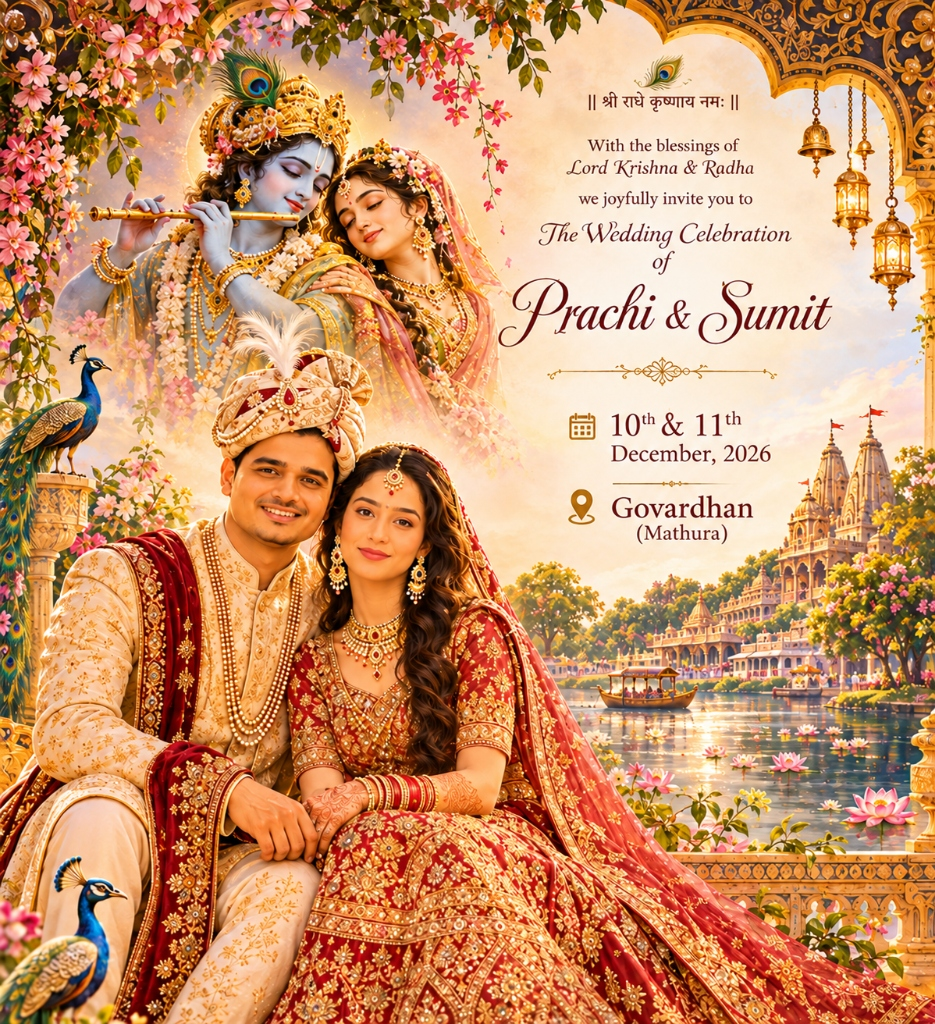
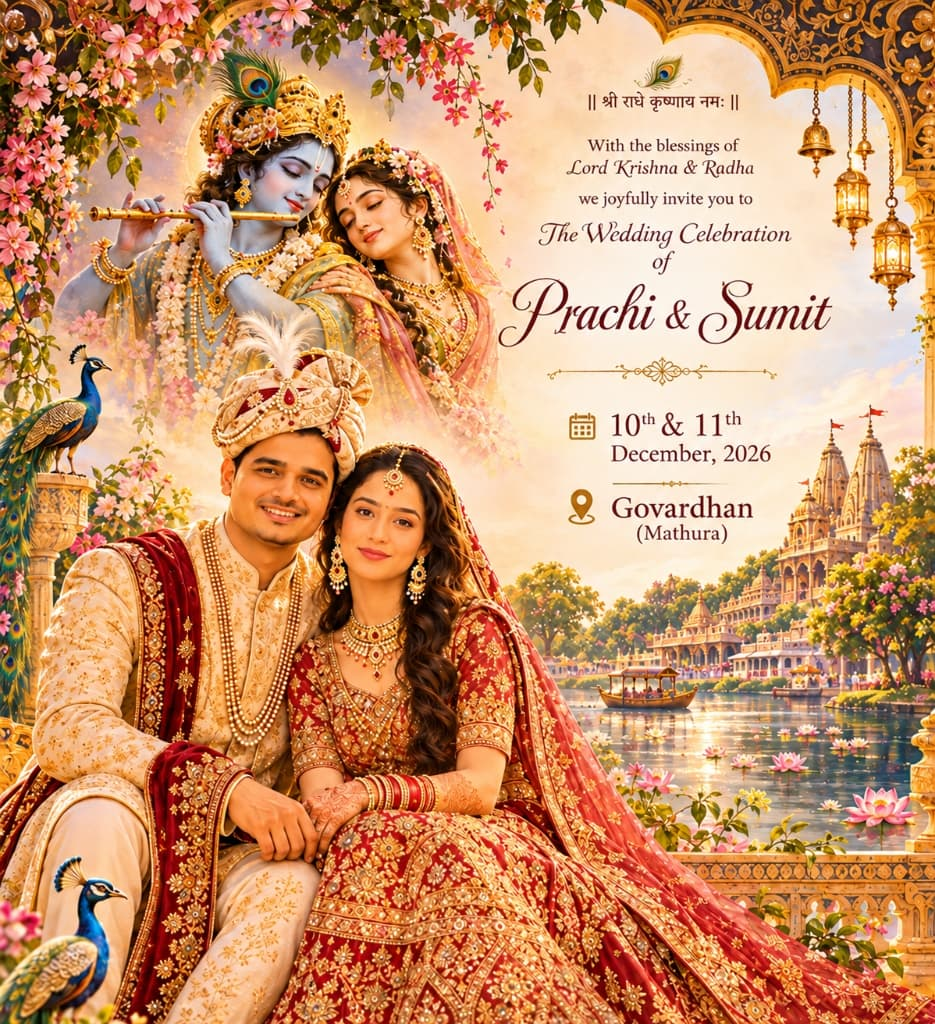
fix(og): optimize preview images to 222KB for WhatsApp 300KB limit, fix dimensions to 935x1024, and bust crawler cache

diff --git a/netlify/edge-functions/dynamic-og.js b/netlify/edge-functions/dynamic-og.js
@@ -48,7 +48,7 @@ export default async function handler(request, context) {
     const brideTitle = 'Prachi Weds Sumit'
     const brideDesc =
       'Together with their families, Prachi & Sumit request the honour of your gracious presence and blessings at their auspicious wedding celebrations. Celebrating love, sacred tradition, and joyous beginnings.'
-    const brideImage = `${origin}/og/wedding-preview-bride.jpg`
+    const brideImage = `${origin}/og/wedding-preview-bride.jpg?v=2`
     const brideUrl = `${origin}/?side=bride`
     const brideAlt =
       'Prachi Weds Sumit — Royal Wedding Celebration featuring Prachi & Sumit'
@@ -95,6 +95,14 @@ export default async function handler(request, context) {
       /<meta\s+property="og:image:alt"\s+content="[^"]*"\s*\/?>/i,
       `<meta property="og:image:alt" content="${brideAlt}" />`
     )
+    html = html.replace(
+      /<meta\s+property="og:image:width"\s+content="[^"]*"\s*\/?>/i,
+      '<meta property="og:image:width" content="935" />'
+    )
+    html = html.replace(
+      /<meta\s+property="og:image:height"\s+content="[^"]*"\s*\/?>/i,
+      '<meta property="og:image:height" content="1024" />'
+    )
 
     // Twitter / X
     html = html.replace(
@@ -121,7 +129,7 @@ export default async function handler(request, context) {
     const groomTitle = 'Sumit Weds Prachi'
     const groomDesc =
       'Together with their families, Sumit & Prachi request the honour of your gracious presence and blessings at their auspicious wedding celebrations. Celebrating love, sacred tradition, and joyous beginnings.'
-    const groomImage = `${origin}/og/wedding-preview-groom.jpg`
+    const groomImage = `${origin}/og/wedding-preview-groom.jpg?v=2`
     const groomUrl = `${origin}/?side=groom`
     const groomAlt =
       'Sumit Weds Prachi — Royal Wedding Celebration featuring Sumit & Prachi'
@@ -171,6 +179,14 @@ export default async function handler(request, context) {
     html = html.replace(
       /<meta\s+property="og:image:alt"\s+content="[^"]*"\s*\/?>/i,
       `<meta property="og:image:alt" content="${groomAlt}" />`
+    )
+    html = html.replace(
+      /<meta\s+property="og:image:width"\s+content="[^"]*"\s*\/?>/i,
+      '<meta property="og:image:width" content="935" />'
+    )
+    html = html.replace(
+      /<meta\s+property="og:image:height"\s+content="[^"]*"\s*\/?>/i,
+      '<meta property="og:image:height" content="1024" />'
     )
     html = html.replace(
       /<meta\s+name="twitter:image"\s+content="[^"]*"\s*\/?>/i,

diff --git a/index.html b/index.html
@@ -29,15 +29,15 @@
     <meta property="og:locale" content="en_IN" />
     <meta
       property="og:image"
-      content="https://sumit-weds-prachi.netlify.app/og/wedding-preview.jpg"
+      content="https://sumit-weds-prachi.netlify.app/og/wedding-preview.jpg?v=2"
     />
     <meta
       property="og:image:secure_url"
-      content="https://sumit-weds-prachi.netlify.app/og/wedding-preview.jpg"
+      content="https://sumit-weds-prachi.netlify.app/og/wedding-preview.jpg?v=2"
     />
     <meta property="og:image:type" content="image/jpeg" />
-    <meta property="og:image:width" content="1200" />
-    <meta property="og:image:height" content="630" />
+    <meta property="og:image:width" content="935" />
+    <meta property="og:image:height" content="1024" />
     <meta
       property="og:image:alt"
       content="Sumit Weds Prachi — Royal Wedding Invitation featuring Sumit and Prachi"
@@ -53,7 +53,7 @@
     />
     <meta
       name="twitter:image"
-      content="https://sumit-weds-prachi.netlify.app/og/wedding-preview.jpg"
+      content="https://sumit-weds-prachi.netlify.app/og/wedding-preview.jpg?v=2"
     />
     <meta
       name="twitter:image:alt"
